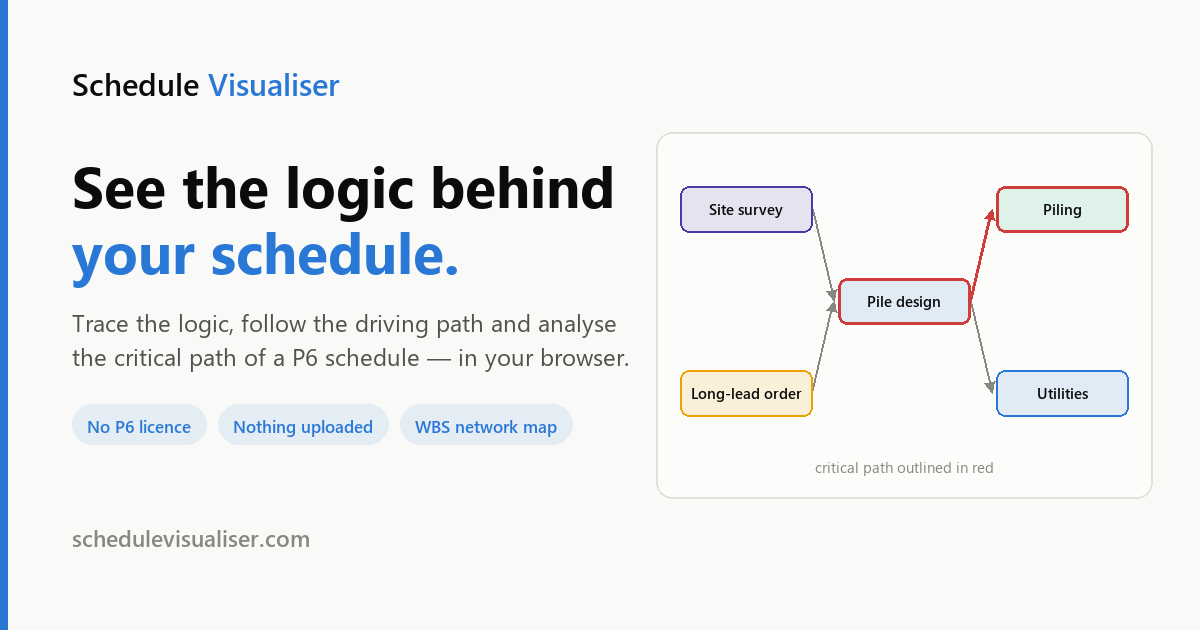
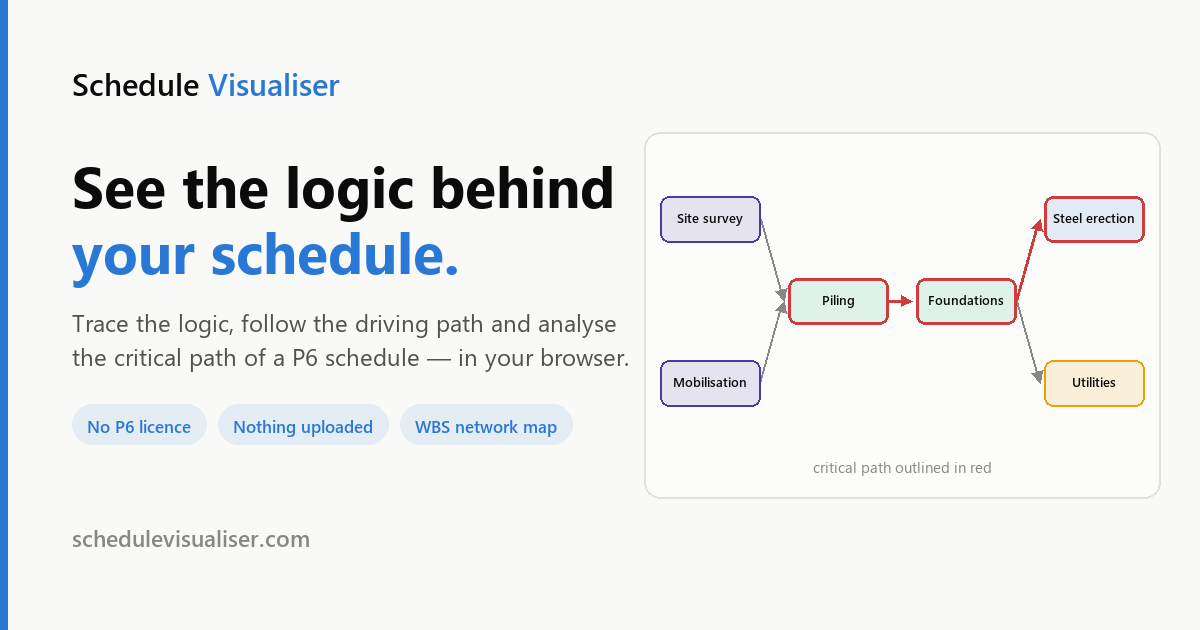
Align the social card with the hero diagram and colour by discipline
The og:image still showed the old sequence (long-lead order feeding pile design feeding piling), so the first thing anyone saw when the link was shared contradicted the home page. It now shows the same chain: Site survey and Mobilisation into Piling, into Foundations, out to Steel erection and Utilities.

It needed a fourth column, which meant narrower nodes - the first attempt left only 8px between Piling and Foundations and the red arrow between them all but vanished. Columns are now ~28px apart so every relationship reads as an arrow.

Node colours mean disciplines, so activities sharing one now share a colour: survey and mobilisation are enabling works, piling and foundations civil. The critical chain crossing from civil into structural is the point of the picture.

diff --git a/index.html b/index.html
@@ -119,13 +119,13 @@
             <text x="66" y="64" text-anchor="middle" fill="var(--text)">Site survey</text>
           </g>
           <g>
-            <rect x="16" y="148" width="100" height="32" rx="7" fill="var(--amber)"
-                  fill-opacity="0.16" stroke="var(--amber)" stroke-width="1.3"/>
+            <rect x="16" y="148" width="100" height="32" rx="7" fill="var(--violet)"
+                  fill-opacity="0.14" stroke="var(--violet)" stroke-width="1.3"/>
             <text x="66" y="168" text-anchor="middle" fill="var(--text)">Mobilisation</text>
           </g>
           <g>
-            <rect x="152" y="96" width="100" height="32" rx="7" fill="var(--accent)"
-                  fill-opacity="0.12" stroke="var(--critical)" stroke-width="2"/>
+            <rect x="152" y="96" width="100" height="32" rx="7" fill="var(--aqua)"
+                  fill-opacity="0.14" stroke="var(--critical)" stroke-width="2"/>
             <text x="202" y="116" text-anchor="middle" fill="var(--text)">Piling</text>
           </g>
           <g>
@@ -134,13 +134,13 @@
             <text x="338" y="116" text-anchor="middle" fill="var(--text)">Foundations</text>
           </g>
           <g>
-            <rect x="424" y="44" width="100" height="32" rx="7" fill="var(--aqua)"
-                  fill-opacity="0.14" stroke="var(--critical)" stroke-width="2"/>
+            <rect x="424" y="44" width="100" height="32" rx="7" fill="var(--accent)"
+                  fill-opacity="0.12" stroke="var(--critical)" stroke-width="2"/>
             <text x="474" y="64" text-anchor="middle" fill="var(--text)">Steel erection</text>
           </g>
           <g>
-            <rect x="424" y="148" width="100" height="32" rx="7" fill="var(--accent)"
-                  fill-opacity="0.12" stroke="var(--accent)" stroke-width="1.3"/>
+            <rect x="424" y="148" width="100" height="32" rx="7" fill="var(--amber)"
+                  fill-opacity="0.16" stroke="var(--amber)" stroke-width="1.3"/>
             <text x="474" y="168" text-anchor="middle" fill="var(--text)">Utilities</text>
           </g>
         </g>

diff --git a/tools/make_og_image.py b/tools/make_og_image.py
@@ -81,7 +81,7 @@ def node(draw, x, y, w, h, label, hue, critical=False):
         outline=CRITICAL if critical else hue,
         width=3 if critical else 2,
     )
-    f = font("semi", 15)
+    f = font("semi", 13)
     draw.text(
         (x + w / 2 - text_width(draw, label, f) / 2, y + h / 2 - 11),
         label,
@@ -129,14 +129,17 @@ def main():
     d.text((72, 522), "schedulevisualiser.com", font=font("semi", 23), fill=FAINT)
 
     # ---- network diagram panel ----
-    px0, py0, px1, py1 = 656, 132, 1152, 498
+    px0, py0, px1, py1 = 644, 132, 1160, 498
     d.rounded_rectangle([px0, py0, px1, py1], radius=16, fill=PANEL,
                         outline=BORDER, width=2)
 
-    # 3 columns of nw across the panel's inner width, evenly gapped
-    nw, nh = 132, 46
-    cols = (680, 838, 996)
-    rows = (186, 278, 370)
+    # 4 columns are needed to show the real sequence - two enabling activities
+    # merging into piling, into foundations, fanning back out - without
+    # inventing logic. Node width is kept down so the ~28px column gaps stay
+    # wide enough for an arrow to actually read as an arrow.
+    nw, nh = 100, 46
+    cols = (660, 788, 916, 1044)
+    rows = (196, 278, 360)
 
     # edges first, so nodes sit on top of the arrowheads
     grey_w, red_w = 2, 3
@@ -144,16 +147,21 @@ def main():
           FAINT, grey_w)
     arrow(d, (cols[0] + nw, rows[2] + nh / 2), (cols[1] - 4, rows[1] + nh / 2),
           FAINT, grey_w)
-    arrow(d, (cols[1] + nw, rows[1] + nh / 2), (cols[2] - 4, rows[0] + nh / 2),
+    arrow(d, (cols[1] + nw, rows[1] + nh / 2), (cols[2] - 4, rows[1] + nh / 2),
           CRITICAL, red_w)
-    arrow(d, (cols[1] + nw, rows[1] + nh / 2), (cols[2] - 4, rows[2] + nh / 2),
+    arrow(d, (cols[2] + nw, rows[1] + nh / 2), (cols[3] - 4, rows[0] + nh / 2),
+          CRITICAL, red_w)
+    arrow(d, (cols[2] + nw, rows[1] + nh / 2), (cols[3] - 4, rows[2] + nh / 2),
           FAINT, grey_w)
 
+    # Colours are disciplines, so activities in the same discipline share one:
+    # survey and mobilisation are enabling works, piling and foundations civil.
     node(d, cols[0], rows[0], nw, nh, "Site survey", VIOLET)
-    node(d, cols[0], rows[2], nw, nh, "Long-lead order", AMBER)
-    node(d, cols[1], rows[1], nw, nh, "Pile design", ACCENT, critical=True)
-    node(d, cols[2], rows[0], nw, nh, "Piling", AQUA, critical=True)
-    node(d, cols[2], rows[2], nw, nh, "Utilities", ACCENT)
+    node(d, cols[0], rows[2], nw, nh, "Mobilisation", VIOLET)
+    node(d, cols[1], rows[1], nw, nh, "Piling", AQUA, critical=True)
+    node(d, cols[2], rows[1], nw, nh, "Foundations", AQUA, critical=True)
+    node(d, cols[3], rows[0], nw, nh, "Steel erection", ACCENT, critical=True)
+    node(d, cols[3], rows[2], nw, nh, "Utilities", AMBER)
 
     f_cap = font("regular", 15)
     cap = "critical path outlined in red"
